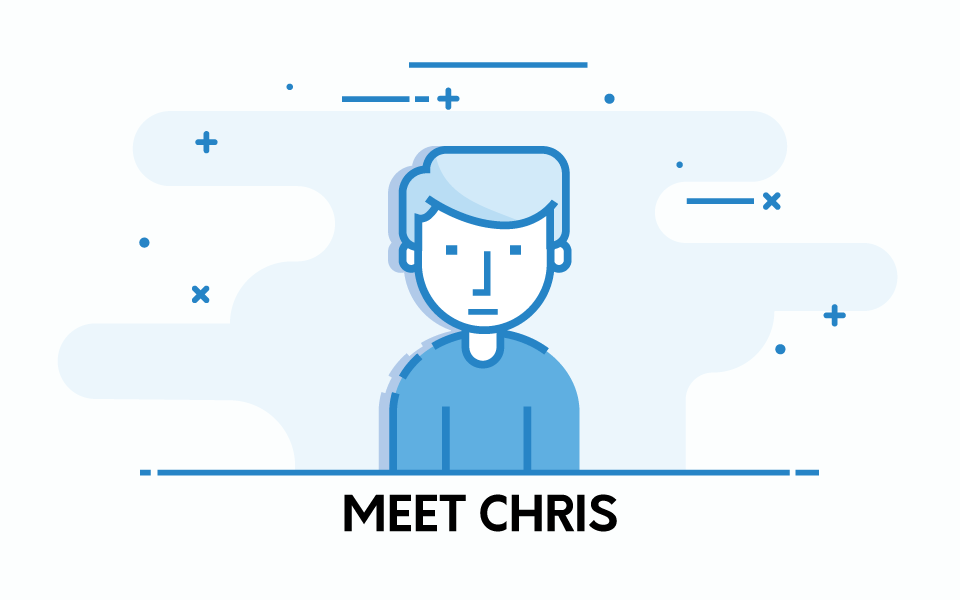
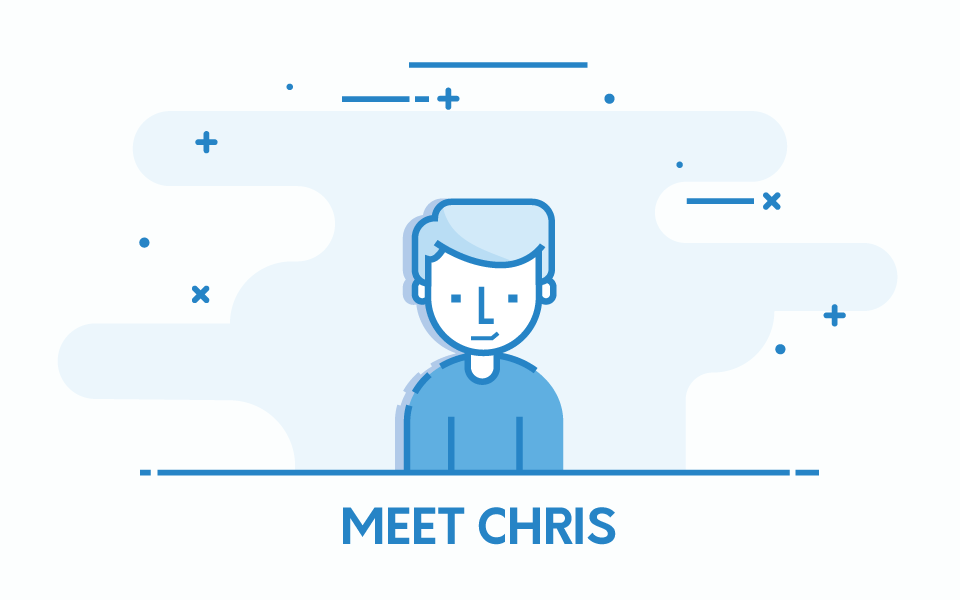
updated developers image

Changed region(s): [[0.375, 0.24, 0.625, 0.78], [0.3438, 0.81, 0.6562, 0.93]]

diff --git a/docs/whitepaper/README.md b/docs/whitepaper/README.md
@@ -38,7 +38,7 @@ Carmel is a blockchain-based Open Source Education Platform that helps aspiring 
 
 ## Introduction
 
-<img align="left" style="margin: 20px" src="https://raw.githubusercontent.com/fluidtrends/carmel/master/images/intro.png">
+<img align="center" src="https://raw.githubusercontent.com/fluidtrends/carmel/master/images/intro.png">
 
 Chris is a 40 year old father who has the type of job that can be easily replaced by robots.
 
@@ -68,7 +68,7 @@ In the new tech-dominated era, the best career choice is to become a tech creato
 
 ## Decentralized Community
 
-<img align="left" style="margin: 20px" src="https://raw.githubusercontent.com/fluidtrends/carmel/master/images/group.png">
+<img align="center" src="https://raw.githubusercontent.com/fluidtrends/carmel/master/images/developers.png">
 
 There are several online platforms catering to people like Chris today. The problem is that they are all operating under a centralized architecture and business model, where the platform acts as a third party between teachers and students, dominating the entire teaching and learning experience.
 
